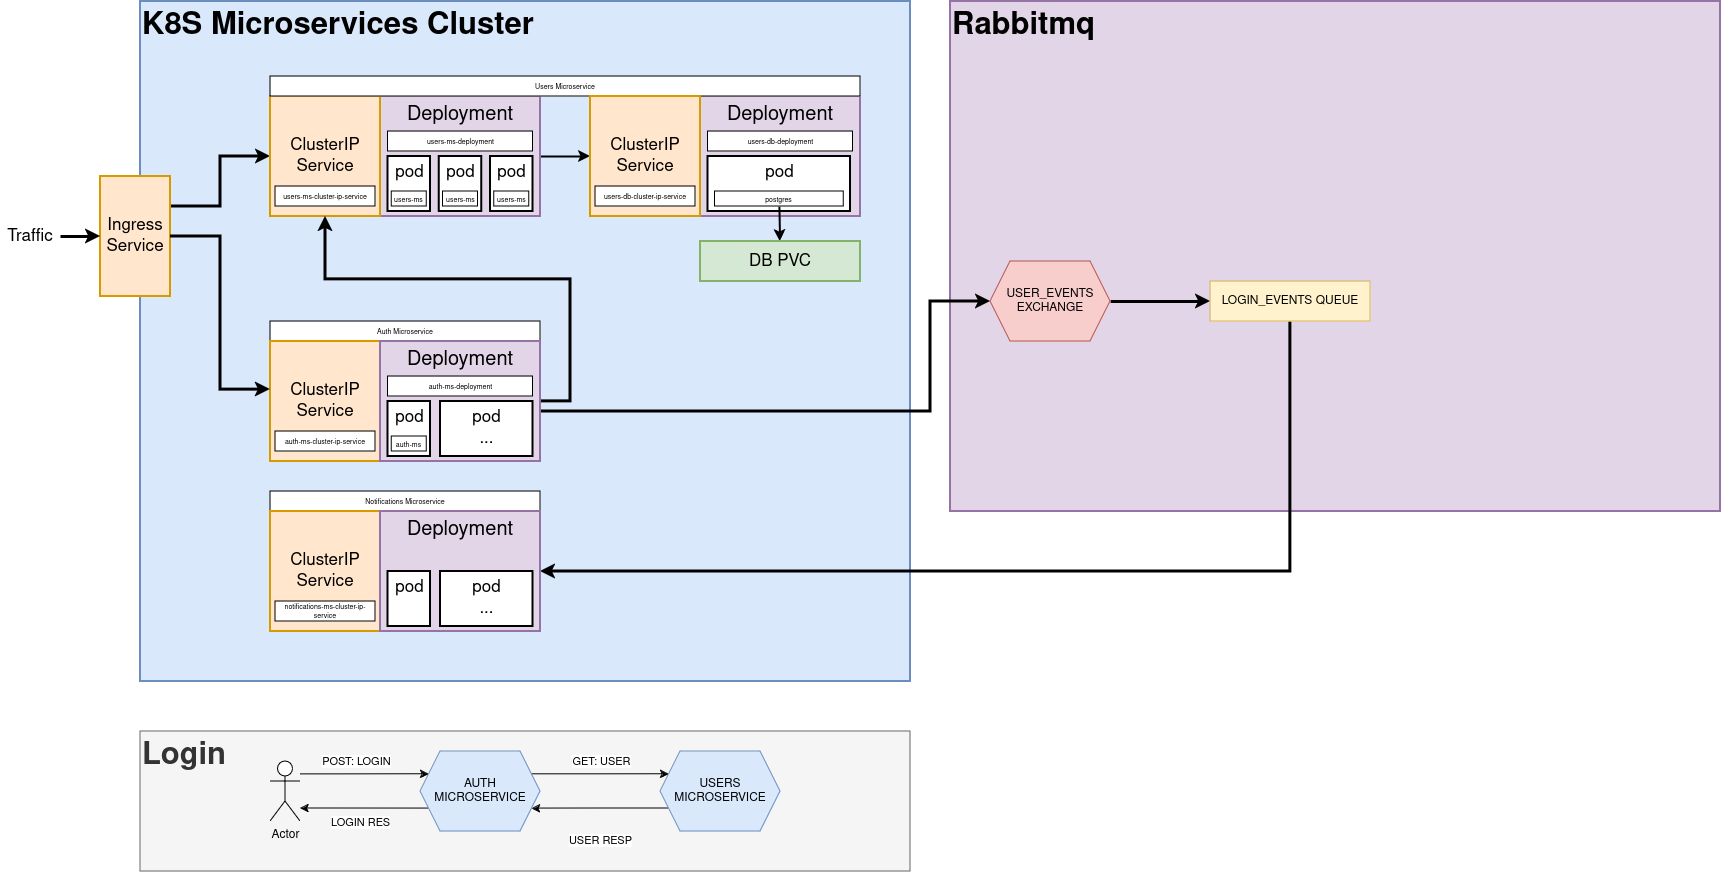
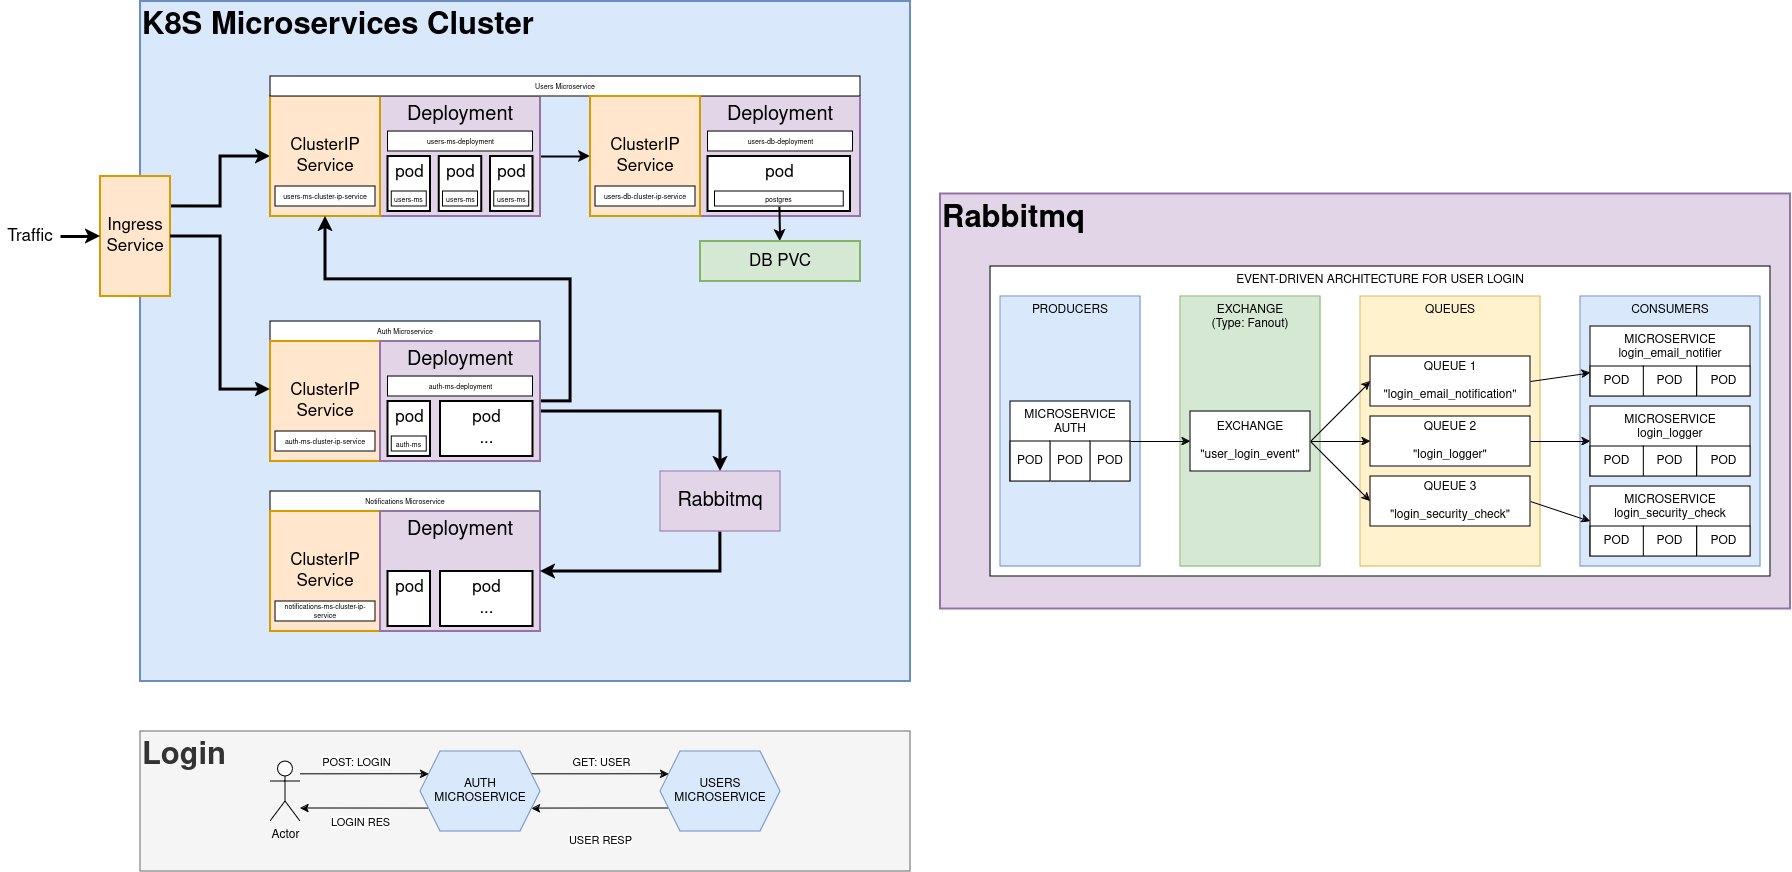
Updates

diff --git a/NotificationMS/src/cmd/api/main.go b/NotificationMS/src/cmd/api/main.go
@@ -1,8 +1,11 @@
 package main
 
 import (
+	"encoding/json"
 	"log"
+	"math/rand"
 	"os"
+	"time"
 
 	amqp "github.com/rabbitmq/amqp091-go"
 )
@@ -12,6 +15,12 @@ type rabbitMqEnv struct {
 	mqPass string
 	mqHost string
 	mqPort string
+}
+
+type Auth struct {
+	Token    string      `json:"string"`
+	User     interface{} `json:"user"`
+	Datetime time.Time   `json:"datetime"`
 }
 
 type application struct {
@@ -42,19 +51,28 @@ func main() {
 	logger.Printf("User: %s", app.rabbitMqEnv.mqUser)
 	logger.Printf("---------------------")
 
-	ch, err := initMQConnection(app.rabbitMqEnv)
+	conn, err := initMQConnection(app.rabbitMqEnv)
 	if err != nil {
 		app.logger.Printf("Failed to connect to RabbitMQ: %s", err)
 	}
 
+	defer conn.Close()
+
+	ch, err := initMQChannel(conn)
+	if err != nil {
+		app.logger.Printf("Failed to open a channel: %s", err)
+	}
+
+	defer ch.Close()
+
 	err = ch.ExchangeDeclare(
-		"user_events", // name
-		"direct",      // type
-		true,          // durable
-		false,         // auto-deleted
-		false,         // internal
-		false,         // no-wait
-		nil,           // arguments
+		"user_login_event", // name
+		"fanout",           // type
+		true,               // durable
+		false,              // auto-deleted
+		false,              // internal
+		false,              // no-wait
+		nil,                // arguments
 	)
 
 	if err != nil {
@@ -62,12 +80,12 @@ func main() {
 	}
 
 	q, err := ch.QueueDeclare(
-		"email_notification", // name
-		false,                // durable
-		false,                // delete when unused
-		true,                 // exclusive
-		false,                // no-wait
-		nil,                  // arguments
+		"login_email_notification", // name
+		false,                      // durable
+		false,                      // delete when unused
+		false,                      // exclusive
+		false,                      // no-wait
+		nil,                        // arguments
 	)
 
 	if err != nil {
@@ -75,9 +93,9 @@ func main() {
 	}
 
 	err = ch.QueueBind(
-		q.Name,        // queue name
-		"login",       // routing key
-		"user_events", // exchange
+		q.Name,             // queue name
+		"",                 // routing key
+		"user_login_event", // exchange
 		false,
 		nil)
 
@@ -103,7 +121,10 @@ func main() {
 
 	go func() {
 		for d := range msgs {
-			log.Printf(" [x] %s", d.Body)
+			err := sendLoginEmailNotification(d.Body)
+			if err != nil {
+				app.logger.Fatalf("Failed to handle queue message: %s", err)
+			}
 		}
 	}()
 
@@ -111,14 +132,35 @@ func main() {
 	<-forever
 }
 
-func initMQConnection(env *rabbitMqEnv) (*amqp.Channel, error) {
+// initMQChannel initializes a channel to RabbitMQ
+func initMQChannel(conn *amqp.Connection) (*amqp.Channel, error) {
+	ch, err := conn.Channel()
+	if err != nil {
+		return nil, err
+	}
+	return ch, nil
+}
+
+// initMQConnection initializes a connection to RabbitMQ
+func initMQConnection(env *rabbitMqEnv) (*amqp.Connection, error) {
 	conn, err := amqp.Dial("amqp://" + env.mqUser + ":" + env.mqPass + "@" + env.mqHost + ":" + env.mqPort + "/")
 	if err != nil {
 		return nil, err
 	}
-	defer conn.Close()
 
-	ch, err := conn.Channel()
+	return conn, nil
+}
 
-	return ch, nil
+func sendLoginEmailNotification(body []byte) error {
+	auth := &Auth{}
+	err := json.Unmarshal(body, &auth)
+	if err != nil {
+		return err
+	}
+
+	// Sleep random time between 1 and 5 seconds
+	time.Sleep(time.Duration(rand.Intn(5-1)+1) * time.Second)
+	log.Printf("Email sent to: %s", auth.User)
+
+	return nil
 }

diff --git a/AuthMS/src/internal/data/auth.go b/AuthMS/src/internal/data/auth.go
@@ -15,8 +15,9 @@ import (
 )
 
 type Auth struct {
-	Token string      `json:"string"`
-	User  interface{} `json:"user"`
+	Token    string      `json:"string"`
+	User     interface{} `json:"user"`
+	Datetime time.Time   `json:"datetime"`
 }
 
 type AuthCredentials struct {
@@ -85,13 +86,13 @@ func (auth *Auth) TriggerLoginEvent() error {
 	log.Println("Opened a channel")
 
 	err = ch.ExchangeDeclare(
-		"user_events", // name
-		"direct",      // type
-		true,          // durable
-		false,         // auto-deleted
-		false,         // internal
-		false,         // no-wait
-		nil,           // arguments
+		"user_login_event", // name
+		"fanout",           // type
+		true,               // durable
+		false,              // auto-deleted
+		false,              // internal
+		false,              // no-wait
+		nil,                // arguments
 	)
 
 	if err != nil {
@@ -109,10 +110,10 @@ func (auth *Auth) TriggerLoginEvent() error {
 	}
 
 	err = ch.PublishWithContext(ctx,
-		"user_events", // exchange
-		"login",       // routing key
-		false,         // mandatory
-		false,         // immediate
+		"user_login_event", // exchange
+		"",                 // routing key
+		false,              // mandatory
+		false,              // immediate
 		amqp.Publishing{
 			ContentType: "text/plain",
 			Body:        serialized,
@@ -122,7 +123,7 @@ func (auth *Auth) TriggerLoginEvent() error {
 		return err
 	}
 
-	log.Printf(" [x] Sent %s", serialized)
+	log.Printf("[user_login_event] Sent %s", serialized)
 
 	return nil
 }

diff --git a/AuthMS/src/cmd/api/auth.go b/AuthMS/src/cmd/api/auth.go
@@ -112,8 +112,9 @@ func (app *application) loginHandler(w http.ResponseWriter, r *http.Request) {
 
 	// Create a new Auth instance
 	auth := &data.Auth{
-		Token: token,
-		User:  response.Users[0],
+		Token:    token,
+		User:     response.Users[0],
+		Datetime: time.Now(),
 	}
 
 	// Trigger auth event
